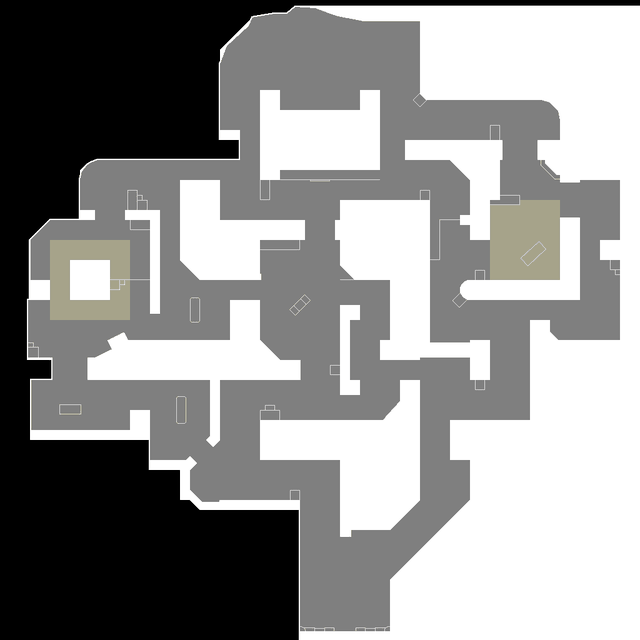
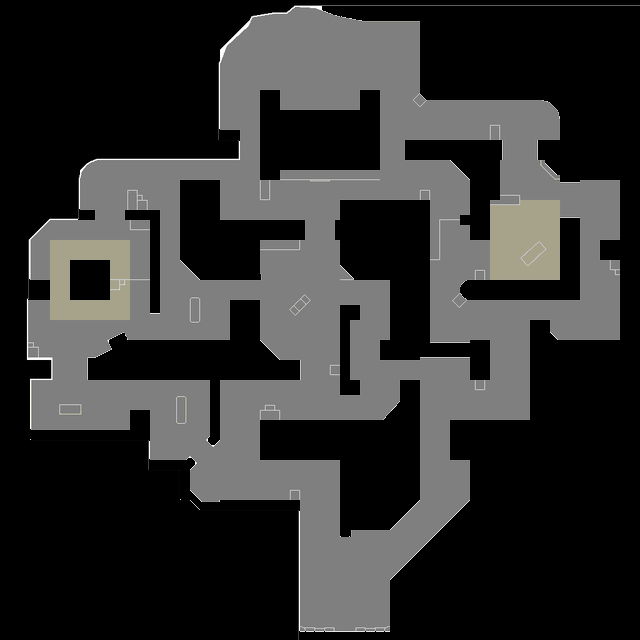
Line up pour plusieurs agents (champ also + admin) ; mini map affichée avec l'arrivée seule ; Sunset sans zones blanches ; n°19, 28, 29, 31 corrigées
Claude-Session: https://claude.ai/code/session_016KdifXzw2P5YJW7CXWM1uo

diff --git a/site/src/lib/data.js b/site/src/lib/data.js
@@ -39,11 +39,14 @@ export const agentInfo = (name) => agents.find((a) => a.name === name) ?? { name
 export const mapBySlug = (s) => maps.find((m) => m.slug === s);
 export const mapByName = (n) => maps.find((m) => m.name === n);
 
+// Une line up peut servir à plusieurs agents : champ « also » (ex. ["Brimstone", "Viper"]).
+export const agentsOf = (l) => uniq([l.agent, ...(l.also ?? [])]);
+
 export const lineupsFor = (mapName, agentName) =>
-  lineups.filter((l) => l.map === mapName && (!agentName || l.agent === agentName));
+  lineups.filter((l) => l.map === mapName && (!agentName || agentsOf(l).includes(agentName)));
 
 export const agentsForMap = (mapName) =>
-  uniq(lineupsFor(mapName).map((l) => l.agent)).map(agentInfo);
+  uniq(lineupsFor(mapName).flatMap(agentsOf)).map(agentInfo);
 
 export const count = (n) => (n === 0 ? 'Bientôt' : n === 1 ? '1 line up' : `${n} line ups`);
 
